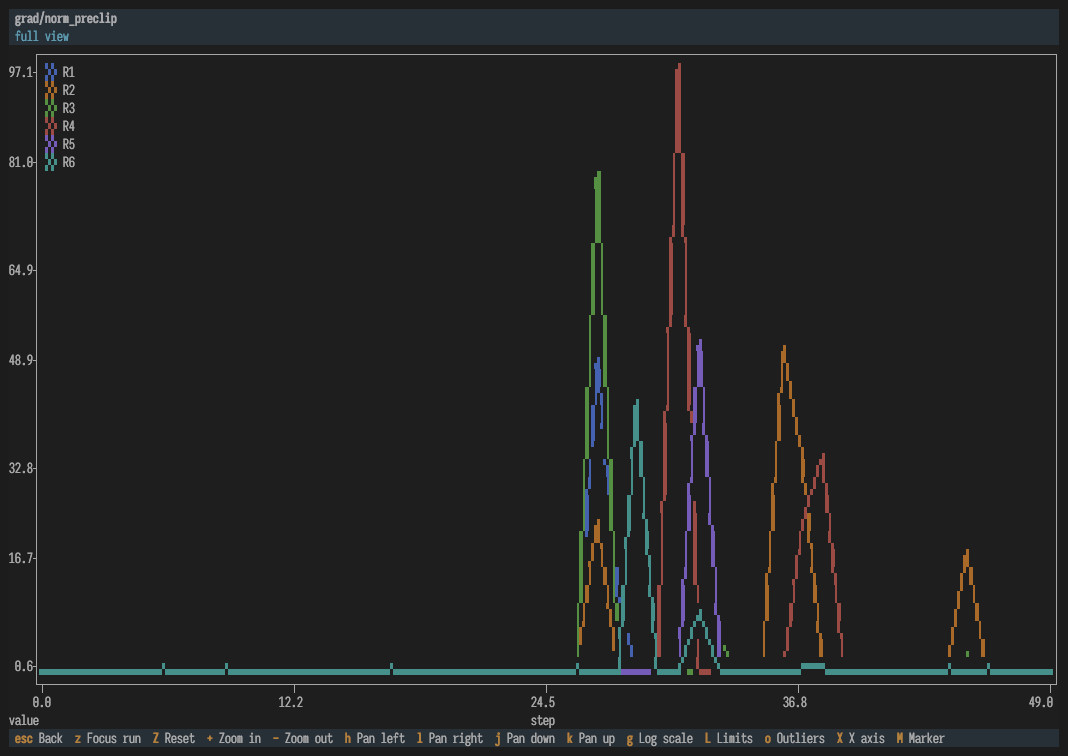
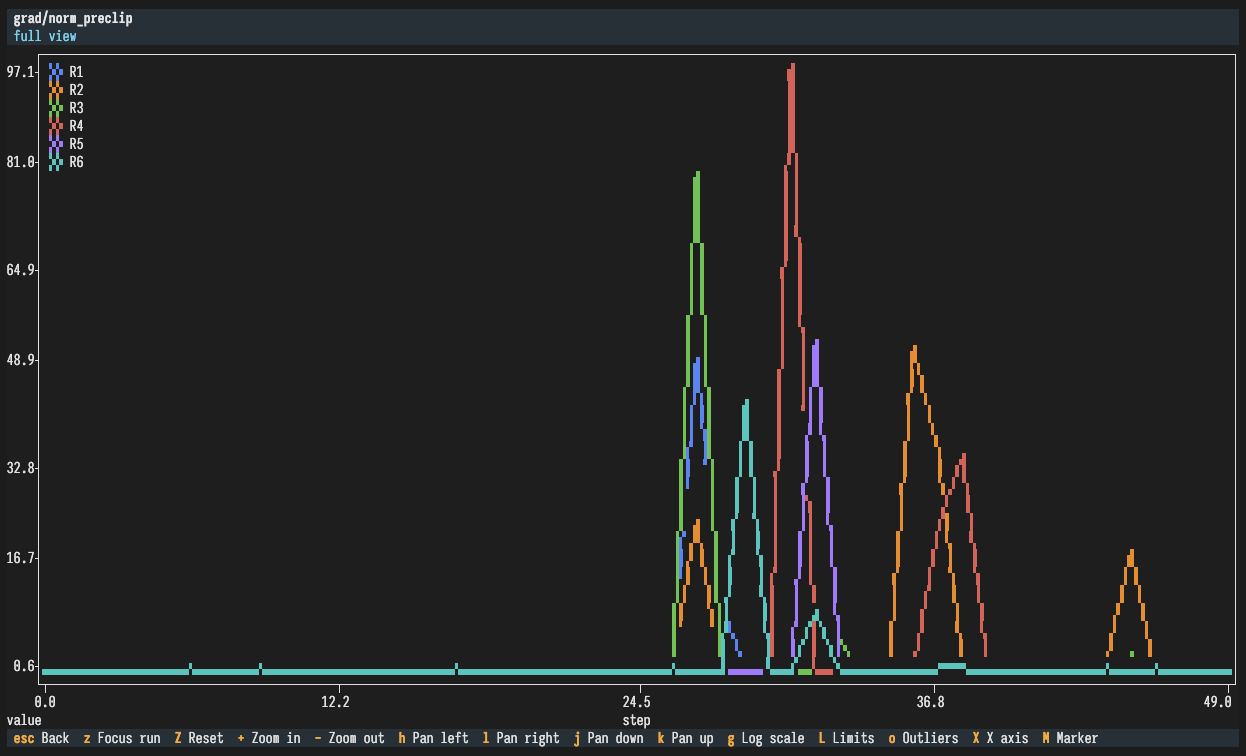
Lead the README with the loss chart; show the marker toggle
Promotes loss-dark/light to the hero slot. Ten runs descending together from
11 to ~6 and then fanning out into divergent spikes says more about what the
tool is for than the old tile-grid shot did.

loss-charts and loss-braille become a before/after for `M`: the same grid in
the default `hd` (2x2 blocks per cell) and in `braille` (2x4 dots), which is
the clearest way to show what cycling the marker actually buys. The old
charts-dark/light are dropped -- loss-charts supersedes them.

Also retitles the zoom caption, which claimed "a converging loss curve" while
the image is grad/norm_preclip -- and, now that the hero IS a loss curve,
would have read as a duplicate.

The capture script grows a resolution guard. This machine has a 2x built-in
and a 1x external display, and the SAME 178x42 cells captured 2314px wide on
one and 1246px on the other -- so a set shot on the external comes out at
half the resolution of one shot on the laptop. shot() now measures each PNG
and aborts below 1800px rather than silently shipping a blurry pair.

KNOWN GAP: the dark set is still ~1246px against the light set's ~2314px,
because it was captured on the external display before that guard existed.
Re-running scripts/screenshots.sh dark from the built-in display fixes it;
the guard now makes that failure loud instead of invisible.

diff --git a/README.md b/README.md
@@ -5,26 +5,46 @@ A lightweight terminal dashboard for comparing Weights & Biases runs directly fr
 It was built for remote/cloud W&B runs when you want a LEET-like terminal view without needing the original local `wandb/` run directories.
 
 <picture>
-  <source media="(prefers-color-scheme: dark)" srcset="assets/charts-dark.png">
-  <source media="(prefers-color-scheme: light)" srcset="assets/charts-light.png">
-  <img alt="Chart mode: five runs overlaid, plotted against n_tokens_seen" src="assets/charts-dark.png">
+  <source media="(prefers-color-scheme: dark)" srcset="assets/loss-dark.png">
+  <source media="(prefers-color-scheme: light)" srcset="assets/loss-light.png">
+  <img alt="Full-screen train/loss for ten runs: a clean descent from 11 to 6, then divergent spikes" src="assets/loss-dark.png">
 </picture>
 
-Five runs from a 300-run project, filtered by config and plotted against
-`n_tokens_seen` — loss converging from 13.0 to 2.6.
+Ten runs from a 100-run project, filtered by config to one day's work:
+`train/loss` descending together from 11 to ~6, then fanning out into
+divergent spikes.
 
 On a light terminal the TUI uses a matching white theme, so it sits on the
 page rather than painting a grey slab over it.
 
 ## Screenshots
 
-Focus a chart tile and press <kbd>Enter</kbd> to open it full-screen, with
-zoom, pan, per-run focus and a log/linear toggle:
+<kbd>Enter</kbd> opens the chart under the cursor full-screen, with zoom, pan,
+per-run focus, axis limits and a log/linear toggle — here `grad/norm_preclip`
+across six runs:
 
 <picture>
   <source media="(prefers-color-scheme: dark)" srcset="assets/zoom-dark.png">
   <source media="(prefers-color-scheme: light)" srcset="assets/zoom-light.png">
-  <img alt="Full-screen chart zoom showing a converging loss curve" src="assets/zoom-dark.png">
+  <img alt="Full-screen zoom of grad/norm_preclip, six runs with distinct gradient spikes" src="assets/zoom-dark.png">
+</picture>
+
+Chart mode tiles every matching metric and scrolls, rather than capping how
+many you can see:
+
+<picture>
+  <source media="(prefers-color-scheme: dark)" srcset="assets/loss-charts-dark.png">
+  <source media="(prefers-color-scheme: light)" srcset="assets/loss-charts-light.png">
+  <img alt="Chart grid with the default hd marker, showing train/loss and train/loss/max tiles" src="assets/loss-charts-dark.png">
+</picture>
+
+<kbd>M</kbd> cycles the marker. The default `hd` above packs 2×2 blocks per
+cell; `braille` below packs 2×4 dots, trading weight for vertical resolution:
+
+<picture>
+  <source media="(prefers-color-scheme: dark)" srcset="assets/loss-braille-dark.png">
+  <source media="(prefers-color-scheme: light)" srcset="assets/loss-braille-light.png">
+  <img alt="The same chart grid rendered with braille markers" src="assets/loss-braille-dark.png">
 </picture>
 
 Group runs into a collapsible tree by any config keys, with per-run metrics
